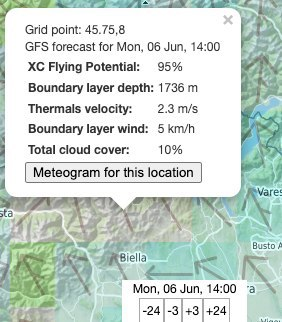
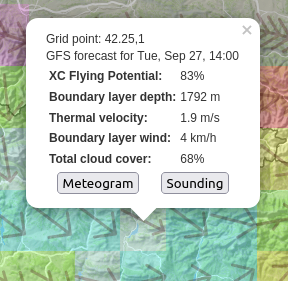
Users can show meteogram or sounding from popup
Remove the “meteogram vs sounding” setting in the menu. Now, users directly select whether to show a meteogram or a sounding from within the popup displayed wherever they click

diff --git a/frontend/src/PeriodSelector.tsx b/frontend/src/PeriodSelector.tsx
@@ -121,15 +121,19 @@ const DetailedView = (): [() => JSX.Element, () => JSX.Element] => {
   const fallback: [JSX.Element, JSX.Element] = [<div />, <div />];
 
   const keyAndView: () => [JSX.Element, JSX.Element] = createMemo<[JSX.Element, JSX.Element]>(() => {
-    const locationForecasts = state.locationForecasts;
-    if (locationForecasts === undefined) return fallback
-    else if (state.detailedView === 'meteogram') {
-      return meteogram(locationForecasts)
-    }
-    else /*if (props.detailedView === 'sounding')*/ {
-      const forecast = locationForecasts.atHourOffset(state.hourOffset);
-      if (forecast === undefined) return fallback
-      else return sounding(forecast, locationForecasts.elevation)
+    const detailedView = state.detailedView;
+    if (detailedView === undefined) {
+      return fallback
+    } else {
+      const [locationForecasts, viewType] = detailedView;
+      if (viewType === 'meteogram') {
+        return meteogram(locationForecasts)
+      }
+      else /*if (viewType === 'sounding')*/ {
+        const forecast = locationForecasts.atHourOffset(state.hourOffset);
+        if (forecast === undefined) return fallback
+        else return sounding(forecast, locationForecasts.elevation)
+      }
     }
   });
   return [
@@ -148,7 +152,7 @@ export const PeriodSelectors = (props: {
   morningOffset: number,
 }): JSX.Element => {
 
-  const [state, { setHourOffset, clearLocationForecasts }] = useState();
+  const [state, { setHourOffset, hideLocationForecast }] = useState();
 
   const [reactiveKey, reactiveDetailedView] = <DetailedView />;
 
@@ -214,10 +218,10 @@ export const PeriodSelectors = (props: {
     <PeriodSelector
       forecastOffsetAndDates={
         // If there is no selected forecast, infer the available periods from the forecast metadata
-        (state.locationForecasts === undefined) ?
+        (state.detailedView === undefined) ?
           forecastOffsets(state.forecastMetadata.init, props.morningOffset, state.forecastMetadata)
         :
-          state.locationForecasts.offsetAndDates()
+          state.detailedView[0].offsetAndDates()
       }
       detailedView={reactiveDetailedView}
     />;
@@ -229,11 +233,11 @@ export const PeriodSelectors = (props: {
         width: `${marginLeft}px`,
         'flex-shrink': 0,
         'background-color': 'white',
-        visibility: (state.locationForecasts !== undefined) ? 'visible' : 'hidden',
+        visibility: (state.detailedView !== undefined) ? 'visible' : 'hidden',
         'text-align': 'center'
       }}
       title='Hide'
-      onClick={() => clearLocationForecasts() }
+      onClick={() => hideLocationForecast() }
     >
       X
     </div>;

diff --git a/frontend/src/ForecastLayer.tsx b/frontend/src/ForecastLayer.tsx
@@ -147,33 +147,11 @@ export const ForecastLayer = (props: {
   openLocationDetailsPopup: (latitude: number, longitude: number, content: JSX.Element) => void
 }): JSX.Element => {
 
-  const [state, { setDetailedView, setForecastMetadata, fetchLocationForecasts }] = useState();
+  const [state, { setForecastMetadata, showLocationForecast }] = useState();
 
   const [isMenuShown, showMenu] = createSignal(false);
   // TODO Move to global state
   const [selectedRenderer, selectRenderer] = createSignal(thqRenderer);
-
-  const meteogramEl = makeRadioBtn(
-    'Meteogram',
-    'Meteogram',
-    () => state.detailedView === 'meteogram',
-    'detailed-view',
-    () => setDetailedView('meteogram')
-  );
-  const soundingEl = makeRadioBtn(
-    'Sounding',
-    'Sounding',
-    () => state.detailedView === 'sounding',
-    'detailed-view',
-    () => setDetailedView('sounding')
-  );
-
-  const detailedViewEl =
-    <fieldset>
-      <legend>Detailed View</legend>
-      {meteogramEl}
-      {soundingEl}
-    </fieldset>;
 
   const selectForecastEl =
     <fieldset>
@@ -256,7 +234,6 @@ export const ForecastLayer = (props: {
   const selectEl =
     <Show when={ isMenuShown() }>
       <div style={{ ...aboveMapStyle, right: '3px', bottom: '136px', 'background-color': 'white' }}>
-        {detailedViewEl}
         {selectForecastEl}
         {layerEl}
       </div>
@@ -313,9 +290,20 @@ export const ForecastLayer = (props: {
             <div>Grid point: {latitude},{longitude}</div>
             <div>GFS forecast for {showDate(state.forecastMetadata.dateAtHourOffset(state.hourOffset), { showWeekDay: true })}</div>
             { dataSource().summary(forecastAtPoint) }
-            <button onClick={ () => fetchLocationForecasts(event.latlng.lat, event.latlng.lng) }>
-              { state.detailedView == 'meteogram' ? "Meteogram for this location" : "Sounding for this time and location" }
-            </button>
+            <div style={{ display: 'flex', 'align-items': 'center', 'justify-content': 'space-around' }}>
+              <button
+                onClick={ () => showLocationForecast(event.latlng.lat, event.latlng.lng, 'meteogram') }
+                title="Meteogram for this location"
+              >
+                Meteogram
+              </button>
+              <button
+                onClick={ () => showLocationForecast(event.latlng.lat, event.latlng.lng, 'sounding') }
+                title="Sounding for this time and location"
+              >
+                Sounding
+              </button>
+            </div>
           </div>
         props.openLocationDetailsPopup(latitude, longitude, content);
       }

diff --git a/frontend/src/State.tsx b/frontend/src/State.tsx
@@ -10,9 +10,8 @@ type State = {
   forecast: Forecast
   // Delta with the forecast initialization time
   hourOffset: number
-  detailedView: DetailedViewType
-  // If defined, the detailed forecast data for the selected location
-  locationForecasts: undefined | LocationForecasts
+  // If defined, the detailed forecast data for the selected location, and the type of detailed view to display
+  detailedView: undefined | [LocationForecasts, DetailedViewType]
 }
 
 type DetailedViewType = 'meteogram' | 'sounding'
@@ -22,9 +21,8 @@ type ContextType = [
   {
     setForecastMetadata: (forecastMetadata: ForecastMetadata) => void
     setHourOffset: (hourOffset: number) => void
-    setDetailedView: (detailedView: DetailedViewType) => void
-    fetchLocationForecasts: (latitude: number, longitude: number) => void
-    clearLocationForecasts: () => void
+    showLocationForecast: (latitude: number, longitude: number, viewType: DetailedViewType) => void
+    hideLocationForecast: () => void
   }
 ]
 
@@ -44,8 +42,7 @@ export const StateProvider = (props: {
     forecastMetadata: props.forecastMetadata,
     forecast: props.currentForecast,
     hourOffset: props.hourOffset,
-    detailedView: 'meteogram',
-    locationForecasts: undefined
+    detailedView: undefined
   });
 
   const context = [
@@ -64,16 +61,13 @@ export const StateProvider = (props: {
             alert('Unable to retrieve forecast data');
           });
       },
-      setDetailedView: (detailedView: DetailedViewType) => {
-        setState({ detailedView })
-      },
-      fetchLocationForecasts: (latitude: number, longitude: number): void => {
+      showLocationForecast: (latitude: number, longitude: number, viewType: DetailedViewType): void => {
         state.forecastMetadata
           .fetchLocationForecasts(latitude, longitude)
-          .then(locationForecasts => setState({ locationForecasts }))
+          .then(locationForecasts => setState({ detailedView: [locationForecasts, viewType] }))
       },
-      clearLocationForecasts: () => {
-        setState({ locationForecasts: undefined })
+      hideLocationForecast: () => {
+        setState({ detailedView: undefined })
       }
     }
   ]

diff --git a/frontend/src/App.tsx b/frontend/src/App.tsx
@@ -26,7 +26,7 @@ export const start = (containerElement: HTMLElement): void => {
     morningOffset: number
   }): JSX.Element => {
 
-    const [state, { clearLocationForecasts }] = useState();
+    const [state, { hideLocationForecast }] = useState();
 
     createEffect(() => {
       map.attributionControl.setPrefix(`Initialization: ${showDate(state.forecastMetadata.init)}`);
@@ -34,8 +34,9 @@ export const start = (containerElement: HTMLElement): void => {
 
     const selectedLocationMarker: L.Marker = L.marker([0, 0], { icon: L.icon({ iconUrl: markerImg, iconSize: [25, 41] }) });
     createEffect(() => {
-      const selectedLocation = state.locationForecasts;
-      if (selectedLocation !== undefined) {
+      const detailedView = state.detailedView;
+      if (detailedView !== undefined) {
+        const selectedLocation = detailedView[0];
         selectedLocationMarker.setLatLng([selectedLocation.latitude, selectedLocation.longitude]);
         selectedLocationMarker.addTo(map);
       } else {
@@ -46,7 +47,7 @@ export const start = (containerElement: HTMLElement): void => {
     map.on('keydown', (e: any) => {
       const event = e.originalEvent as KeyboardEvent;
       if (event.key === 'Escape') {
-        clearLocationForecasts();
+        hideLocationForecast();
       }
     });
 

diff --git a/frontend/src/Burger.tsx b/frontend/src/Burger.tsx
@@ -69,7 +69,7 @@ export const Burger = (): JSX.Element => {
     </div>;
   L.DomEvent.disableClickPropagation(options);
 
-  return <Show when={ state.locationForecasts === undefined }>
+  return <Show when={ state.detailedView === undefined }>
     {menu}
     <Show when={expanded()}>
       {options}
